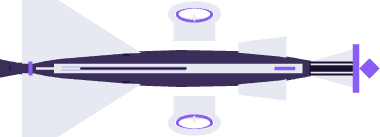
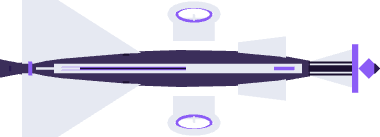
fix(models): the Responsory's emitter core lit at the bow, its sealed ring cores gone (#645)
The emitter core sat inside its own crystal. It leads the crystal's tip
by 0.2 m now, onto the bow at x 47.5 (bowArray's coreLead), so its
forward faces are the lit thing — 2.5 m² facing up, the Clarion's idiom.
The two ring cores were lamps sealed in crystal on rings the block keeps
cold at rest; resonatorRing no longer draws them. 45 parts and 2,816
triangles become 43 and 2,256, materials unchanged, and the shipped maps
resample by 0.2 % as the build lands on the design length.

Claude-Session: https://claude.ai/code/session_01FQm6HX5ogMSoduVsEhnbxm

diff --git a/packages/frontend/src/game/hullOutlines.generated.ts b/packages/frontend/src/game/hullOutlines.generated.ts
@@ -444,15 +444,15 @@ export const GENERATED_HULL_OUTLINE = {
   // responsory-hadron.glb
   [UnitKind.Responsory]: [
     [0.5, 0.006],
-    [0.45, 0.017],
-    [0.438, 0.049],
+    [0.45, 0.019],
+    [0.438, 0.05],
     [0.325, 0.021],
     [0.263, 0.03],
     [0.25, 0.082],
     [0.088, 0.046],
-    [0.075, 0.158],
-    [0.037, 0.174],
-    [-0.05, 0.159],
+    [0.075, 0.156],
+    [0.037, 0.173],
+    [-0.05, 0.16],
     [-0.062, 0.047],
     [-0.125, 0.046],
     [-0.35, 0.179],
@@ -464,17 +464,16 @@ export const GENERATED_HULL_OUTLINE = {
     [-0.45, -0.017],
     [-0.437, -0.179],
     [-0.35, -0.179],
-    [-0.137, -0.047],
+    [-0.137, -0.046],
     [-0.062, -0.047],
-    [-0.05, -0.159],
+    [-0.05, -0.16],
     [0.025, -0.175],
-    [0.075, -0.158],
+    [0.075, -0.156],
     [0.088, -0.046],
     [0.25, -0.082],
     [0.263, -0.03],
     [0.325, -0.021],
-    [0.438, -0.049],
-    [0.45, -0.017],
+    [0.438, -0.05],
   ],
 } satisfies Partial<Record<UnitKind, number[][]>>;
 
